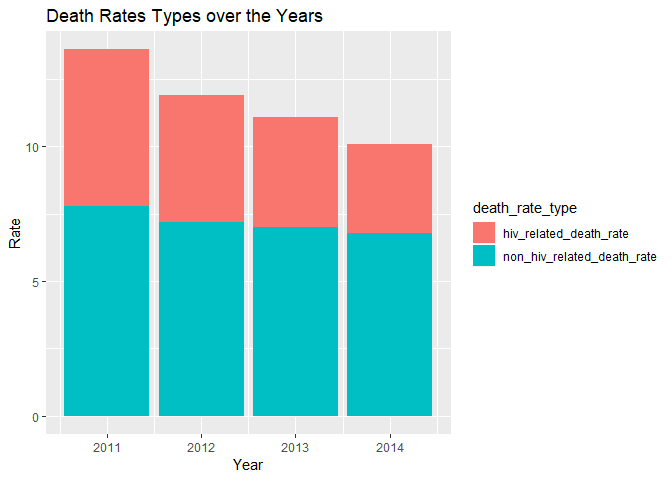
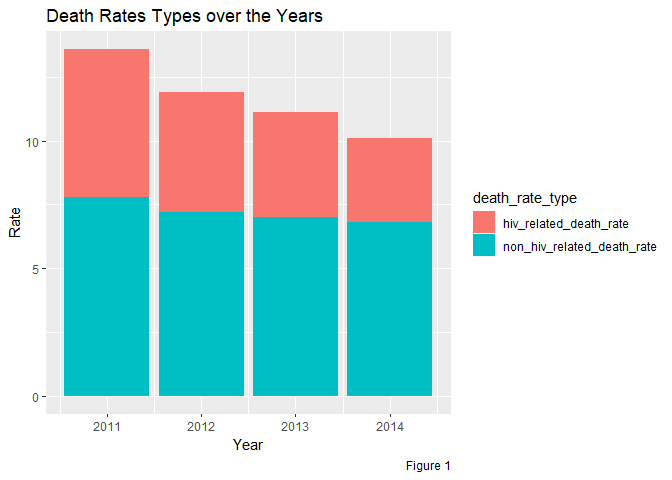
add caption to big picture plots

diff --git a/Final_Report.html b/Final_Report.html
@@ -269,7 +269,8 @@ ggplot(stacked_death_plot, aes(x = year, y = death_rate_nums, group = death_rate
   labs(
     title = &quot;Death Rates Types over the Years&quot;,
     x = &quot;Year&quot;,
-    y = &quot;Rate&quot;
+    y = &quot;Rate&quot;,
+    caption = &quot;Figure 1&quot;
   )</code></pre>
 <p><img src="Final_Report_files/figure-html/unnamed-chunk-1-1.png" /><!-- --></p>
 <pre class="r"><code>#stacked_death_plot %&gt;% plot_ly(x = ~year, y = ~non_hiv_related_death_rate, type = &#39;bar&#39;, name = &#39;Non HIV-related death rate&#39;) %&gt;%
@@ -301,7 +302,8 @@ HIV_diagnosis_data %&gt;%
   ggplot(aes(x = year, y = hiv_diagnosis_rate)) +
   geom_bar(aes(fill = borough), position = &quot;dodge&quot;, stat = &quot;identity&quot;) +
   labs(title = &quot;HIV Diagnosis Rate by Borough over Time&quot;,
-       y = &quot;HIV Diagnosis Rate&quot;)</code></pre>
+       y = &quot;HIV Diagnosis Rate&quot;,
+       caption = &quot;Figure 2&quot;)</code></pre>
 <p><img src="Final_Report_files/figure-html/unnamed-chunk-2-1.png" /><!-- --></p>
 <pre class="r"><code>#spread_boros %&gt;% plot_ly(x = ~year, y = ~manhattan, type = &#39;bar&#39;, name = &#39;Manhattan&#39;) %&gt;%
 #  add_trace(y = ~bronx, name = &#39;Bronx&#39;) %&gt;%

diff --git a/Final_Report.md b/Final_Report.md
@@ -97,7 +97,8 @@ ggplot(stacked_death_plot, aes(x = year, y = death_rate_nums, group = death_rate
   labs(
     title = "Death Rates Types over the Years",
     x = "Year",
-    y = "Rate"
+    y = "Rate",
+    caption = "Figure 1"
   )
 ```
 
@@ -149,7 +150,8 @@ HIV_diagnosis_data %>%
   ggplot(aes(x = year, y = hiv_diagnosis_rate)) +
   geom_bar(aes(fill = borough), position = "dodge", stat = "identity") +
   labs(title = "HIV Diagnosis Rate by Borough over Time",
-       y = "HIV Diagnosis Rate")
+       y = "HIV Diagnosis Rate",
+       caption = "Figure 2")
 ```
 
 ![](Final_Report_files/figure-html/unnamed-chunk-2-1.png)<!-- -->
